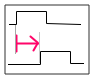
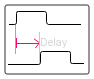
Updates

diff --git a/assets/shapes/index.js b/assets/shapes/index.js
@@ -6710,68 +6710,73 @@ var draw2d_circuit_timer_Delay = draw2d.SetFigure.extend({
         shape.data("name","BoundingBox");
         
         // Rectangle
-        shape = this.canvas.paper.path('M84 69L0 69L0 0L84 0Z');
+        shape = this.canvas.paper.path('M84,67Q84,69 82, 69L2,69Q0,69 0, 67L0,2Q0,0 2, 0L82,0Q84,0 84, 2L84,67');
         shape.attr({"stroke":"#303030","stroke-width":1,"fill":"#FFFFFF","dasharray":null,"opacity":1});
         shape.data("name","Rectangle");
         
+        // Label
+        shape = this.canvas.paper.text(0,0,'Delay');
+        shape.attr({"x":36,"y":37.5,"text-anchor":"start","text":"Delay","font-family":"\"Arial\"","font-size":11,"stroke":"none","fill":"#D9D9D9","stroke-scale":true,"font-weight":"normal","stroke-width":0,"opacity":1});
+        shape.data("name","Label");
+        
+        // pulseline_top_shadow
+        shape = this.canvas.paper.path('M4.5 19.5L9.5,19.5Q11.309437499999149,19.776879999997618 11.5, 17.5L11.5,8.5Q11.309437499998694,6.006239999997433 13.5, 6.5L39.5,6.5Q41.27567749999935,6.333919999997761 41.5, 8.5L41.5,16.5Q41.27567749999935,18.992499999997563 43.5, 19.5L75.5,19.5');
+        shape.attr({"stroke-linecap":"round","stroke-linejoin":"round","stroke":"none","stroke-width":1,"stroke-dasharray":null,"opacity":1});
+        shape.data("name","pulseline_top_shadow");
+        
+        // pulseline_top
+        shape = this.canvas.paper.path('M4.5 19.5L9.5,19.5Q11.309437499999149,19.776879999997618 11.5, 17.5L11.5,8.5Q11.309437499998694,6.006239999997433 13.5, 6.5L39.5,6.5Q41.27567749999935,6.333919999997761 41.5, 8.5L41.5,16.5Q41.27567749999935,18.992499999997563 43.5, 19.5L75.5,19.5');
+        shape.attr({"stroke-linecap":"round","stroke-linejoin":"round","stroke":"#000000","stroke-width":1,"stroke-dasharray":null,"opacity":1});
+        shape.data("name","pulseline_top");
+        
+        // pulseline_bottom_shadow
+        shape = this.canvas.paper.path('M3.5 59.5L33.5,59.5Q35.642557499997565,59.19479999999612 35.5, 57.5L35.5,48.5Q35.642557499997565,46.40719999999601 37.5, 46.5L63.5,46.5Q65.60879749999776,46.07951999999614 65.5, 48.5L65.5,56.5Q65.60879749999776,58.73809999999594 67.5, 58.5L78.5,58.5');
+        shape.attr({"stroke-linecap":"round","stroke-linejoin":"round","stroke":"none","stroke-width":1,"stroke-dasharray":null,"opacity":1});
+        shape.data("name","pulseline_bottom_shadow");
+        
+        // pulseline_bottom
+        shape = this.canvas.paper.path('M3.5 59.5L33.5,59.5Q35.642557499997565,59.19479999999612 35.5, 57.5L35.5,48.5Q35.642557499997565,46.40719999999601 37.5, 46.5L63.5,46.5Q65.60879749999776,46.07951999999614 65.5, 48.5L65.5,56.5Q65.60879749999776,58.73809999999594 67.5, 58.5L78.5,58.5');
+        shape.attr({"stroke-linecap":"round","stroke-linejoin":"round","stroke":"#000000","stroke-width":1,"stroke-dasharray":null,"opacity":1});
+        shape.data("name","pulseline_bottom");
+        
         // Line_shadow
-        shape = this.canvas.paper.path('M4.5 19.5L11.5,19.5L11.5,6.5L41.5,6.5L41.5,18.5L75.5,19.5');
+        shape = this.canvas.paper.path('M11.5 33.5L11.5,42.5');
         shape.attr({"stroke-linecap":"round","stroke-linejoin":"round","stroke":"none","stroke-width":1,"stroke-dasharray":null,"opacity":1});
         shape.data("name","Line_shadow");
         
         // Line
-        shape = this.canvas.paper.path('M4.5 19.5L11.5,19.5L11.5,6.5L41.5,6.5L41.5,18.5L75.5,19.5');
-        shape.attr({"stroke-linecap":"round","stroke-linejoin":"round","stroke":"#000000","stroke-width":1,"stroke-dasharray":null,"opacity":1});
+        shape = this.canvas.paper.path('M11.5 33.5L11.5,42.5');
+        shape.attr({"stroke-linecap":"round","stroke-linejoin":"round","stroke":"#FF0569","stroke-width":1,"stroke-dasharray":null,"opacity":1});
         shape.data("name","Line");
         
         // Line_shadow
-        shape = this.canvas.paper.path('M3.5 59.5L35.5,59.5L35.5,46.5L65.5,46.5L65.5,58.5L78.5,58.5');
+        shape = this.canvas.paper.path('M33.5 38.5L30.5,42.5');
         shape.attr({"stroke-linecap":"round","stroke-linejoin":"round","stroke":"none","stroke-width":1,"stroke-dasharray":null,"opacity":1});
         shape.data("name","Line_shadow");
         
         // Line
-        shape = this.canvas.paper.path('M3.5 59.5L35.5,59.5L35.5,46.5L65.5,46.5L65.5,58.5L78.5,58.5');
-        shape.attr({"stroke-linecap":"round","stroke-linejoin":"round","stroke":"#000000","stroke-width":1,"stroke-dasharray":null,"opacity":1});
+        shape = this.canvas.paper.path('M33.5 38.5L30.5,42.5');
+        shape.attr({"stroke-linecap":"round","stroke-linejoin":"round","stroke":"#FF0569","stroke-width":1,"stroke-dasharray":null,"opacity":1});
         shape.data("name","Line");
         
         // Line_shadow
-        shape = this.canvas.paper.path('M11.5 30.5L11.5,46.5');
-        shape.attr({"stroke-linecap":"round","stroke-linejoin":"round","stroke":"none","stroke-width":2,"stroke-dasharray":null,"opacity":1});
+        shape = this.canvas.paper.path('M29.5 34.5L33.5,37.5');
+        shape.attr({"stroke-linecap":"round","stroke-linejoin":"round","stroke":"none","stroke-width":1,"stroke-dasharray":null,"opacity":1});
         shape.data("name","Line_shadow");
         
         // Line
-        shape = this.canvas.paper.path('M11.5 30.5L11.5,46.5');
-        shape.attr({"stroke-linecap":"round","stroke-linejoin":"round","stroke":"#FF0569","stroke-width":2,"stroke-dasharray":null,"opacity":1});
-        shape.data("name","Line");
-        
-        // Line_shadow
-        shape = this.canvas.paper.path('M32.5 38.5L28.5,45.5');
-        shape.attr({"stroke-linecap":"round","stroke-linejoin":"round","stroke":"none","stroke-width":2,"stroke-dasharray":null,"opacity":1});
-        shape.data("name","Line_shadow");
-        
-        // Line
-        shape = this.canvas.paper.path('M32.5 38.5L28.5,45.5');
-        shape.attr({"stroke-linecap":"round","stroke-linejoin":"round","stroke":"#FF0569","stroke-width":2,"stroke-dasharray":null,"opacity":1});
+        shape = this.canvas.paper.path('M29.5 34.5L33.5,37.5');
+        shape.attr({"stroke-linecap":"round","stroke-linejoin":"round","stroke":"#FF0569","stroke-width":1,"stroke-dasharray":null,"opacity":1});
         shape.data("name","Line");
         
         // Line_shadow
         shape = this.canvas.paper.path('M11.5 38.5L33.5,38.5');
-        shape.attr({"stroke-linecap":"round","stroke-linejoin":"round","stroke":"none","stroke-width":2,"stroke-dasharray":null,"opacity":1});
+        shape.attr({"stroke-linecap":"round","stroke-linejoin":"round","stroke":"none","stroke-width":1,"stroke-dasharray":null,"opacity":1});
         shape.data("name","Line_shadow");
         
         // Line
         shape = this.canvas.paper.path('M11.5 38.5L33.5,38.5');
-        shape.attr({"stroke-linecap":"round","stroke-linejoin":"round","stroke":"#FF0569","stroke-width":2,"stroke-dasharray":null,"opacity":1});
-        shape.data("name","Line");
-        
-        // Line_shadow
-        shape = this.canvas.paper.path('M25.5 31.5L32.5,37.5');
-        shape.attr({"stroke-linecap":"round","stroke-linejoin":"round","stroke":"none","stroke-width":2,"stroke-dasharray":null,"opacity":1});
-        shape.data("name","Line_shadow");
-        
-        // Line
-        shape = this.canvas.paper.path('M25.5 31.5L32.5,37.5');
-        shape.attr({"stroke-linecap":"round","stroke-linejoin":"round","stroke":"#FF0569","stroke-width":2,"stroke-dasharray":null,"opacity":1});
+        shape.attr({"stroke-linecap":"round","stroke-linejoin":"round","stroke":"#FF0569","stroke-width":1,"stroke-dasharray":null,"opacity":1});
         shape.data("name","Line");
         
         // Line_shadow
@@ -6959,14 +6964,13 @@ draw2d_circuit_timer_Delay = draw2d_circuit_timer_Delay.extend({
         });
         this.attr({
             resizeable:false,
-            "userData.delay":1500
+            "userData.delay":500
         });
         this.installEditPolicy(new draw2d.policy.figure.AntSelectionFeedbackPolicy());
     },
     
     /**
-     * called every '10 [ms]' from the application. do a little bit calculation
-     * to change the state every 100ms (10Hz)
+     * called every '10 [ms]' from the application.
      * 
      **/
     calculate:function()
@@ -6994,7 +6998,7 @@ draw2d_circuit_timer_Delay = draw2d_circuit_timer_Delay.extend({
             property:{
                 type: "integer",
                 min: 10,
-                max: 100,
+                max: 15000,
                 increment:10
         }
         

diff --git a/assets/shapes/draw2d_circuit_timer_Delay.js b/assets/shapes/draw2d_circuit_timer_Delay.js
@@ -46,68 +46,73 @@ var draw2d_circuit_timer_Delay = draw2d.SetFigure.extend({
         shape.data("name","BoundingBox");
         
         // Rectangle
-        shape = this.canvas.paper.path('M84 69L0 69L0 0L84 0Z');
+        shape = this.canvas.paper.path('M84,67Q84,69 82, 69L2,69Q0,69 0, 67L0,2Q0,0 2, 0L82,0Q84,0 84, 2L84,67');
         shape.attr({"stroke":"#303030","stroke-width":1,"fill":"#FFFFFF","dasharray":null,"opacity":1});
         shape.data("name","Rectangle");
         
+        // Label
+        shape = this.canvas.paper.text(0,0,'Delay');
+        shape.attr({"x":36,"y":37.5,"text-anchor":"start","text":"Delay","font-family":"\"Arial\"","font-size":11,"stroke":"none","fill":"#D9D9D9","stroke-scale":true,"font-weight":"normal","stroke-width":0,"opacity":1});
+        shape.data("name","Label");
+        
+        // pulseline_top_shadow
+        shape = this.canvas.paper.path('M4.5 19.5L9.5,19.5Q11.309437499999149,19.776879999997618 11.5, 17.5L11.5,8.5Q11.309437499998694,6.006239999997433 13.5, 6.5L39.5,6.5Q41.27567749999935,6.333919999997761 41.5, 8.5L41.5,16.5Q41.27567749999935,18.992499999997563 43.5, 19.5L75.5,19.5');
+        shape.attr({"stroke-linecap":"round","stroke-linejoin":"round","stroke":"none","stroke-width":1,"stroke-dasharray":null,"opacity":1});
+        shape.data("name","pulseline_top_shadow");
+        
+        // pulseline_top
+        shape = this.canvas.paper.path('M4.5 19.5L9.5,19.5Q11.309437499999149,19.776879999997618 11.5, 17.5L11.5,8.5Q11.309437499998694,6.006239999997433 13.5, 6.5L39.5,6.5Q41.27567749999935,6.333919999997761 41.5, 8.5L41.5,16.5Q41.27567749999935,18.992499999997563 43.5, 19.5L75.5,19.5');
+        shape.attr({"stroke-linecap":"round","stroke-linejoin":"round","stroke":"#000000","stroke-width":1,"stroke-dasharray":null,"opacity":1});
+        shape.data("name","pulseline_top");
+        
+        // pulseline_bottom_shadow
+        shape = this.canvas.paper.path('M3.5 59.5L33.5,59.5Q35.642557499997565,59.19479999999612 35.5, 57.5L35.5,48.5Q35.642557499997565,46.40719999999601 37.5, 46.5L63.5,46.5Q65.60879749999776,46.07951999999614 65.5, 48.5L65.5,56.5Q65.60879749999776,58.73809999999594 67.5, 58.5L78.5,58.5');
+        shape.attr({"stroke-linecap":"round","stroke-linejoin":"round","stroke":"none","stroke-width":1,"stroke-dasharray":null,"opacity":1});
+        shape.data("name","pulseline_bottom_shadow");
+        
+        // pulseline_bottom
+        shape = this.canvas.paper.path('M3.5 59.5L33.5,59.5Q35.642557499997565,59.19479999999612 35.5, 57.5L35.5,48.5Q35.642557499997565,46.40719999999601 37.5, 46.5L63.5,46.5Q65.60879749999776,46.07951999999614 65.5, 48.5L65.5,56.5Q65.60879749999776,58.73809999999594 67.5, 58.5L78.5,58.5');
+        shape.attr({"stroke-linecap":"round","stroke-linejoin":"round","stroke":"#000000","stroke-width":1,"stroke-dasharray":null,"opacity":1});
+        shape.data("name","pulseline_bottom");
+        
         // Line_shadow
-        shape = this.canvas.paper.path('M4.5 19.5L11.5,19.5L11.5,6.5L41.5,6.5L41.5,18.5L75.5,19.5');
+        shape = this.canvas.paper.path('M11.5 33.5L11.5,42.5');
         shape.attr({"stroke-linecap":"round","stroke-linejoin":"round","stroke":"none","stroke-width":1,"stroke-dasharray":null,"opacity":1});
         shape.data("name","Line_shadow");
         
         // Line
-        shape = this.canvas.paper.path('M4.5 19.5L11.5,19.5L11.5,6.5L41.5,6.5L41.5,18.5L75.5,19.5');
-        shape.attr({"stroke-linecap":"round","stroke-linejoin":"round","stroke":"#000000","stroke-width":1,"stroke-dasharray":null,"opacity":1});
+        shape = this.canvas.paper.path('M11.5 33.5L11.5,42.5');
+        shape.attr({"stroke-linecap":"round","stroke-linejoin":"round","stroke":"#FF0569","stroke-width":1,"stroke-dasharray":null,"opacity":1});
         shape.data("name","Line");
         
         // Line_shadow
-        shape = this.canvas.paper.path('M3.5 59.5L35.5,59.5L35.5,46.5L65.5,46.5L65.5,58.5L78.5,58.5');
+        shape = this.canvas.paper.path('M33.5 38.5L30.5,42.5');
         shape.attr({"stroke-linecap":"round","stroke-linejoin":"round","stroke":"none","stroke-width":1,"stroke-dasharray":null,"opacity":1});
         shape.data("name","Line_shadow");
         
         // Line
-        shape = this.canvas.paper.path('M3.5 59.5L35.5,59.5L35.5,46.5L65.5,46.5L65.5,58.5L78.5,58.5');
-        shape.attr({"stroke-linecap":"round","stroke-linejoin":"round","stroke":"#000000","stroke-width":1,"stroke-dasharray":null,"opacity":1});
+        shape = this.canvas.paper.path('M33.5 38.5L30.5,42.5');
+        shape.attr({"stroke-linecap":"round","stroke-linejoin":"round","stroke":"#FF0569","stroke-width":1,"stroke-dasharray":null,"opacity":1});
         shape.data("name","Line");
         
         // Line_shadow
-        shape = this.canvas.paper.path('M11.5 30.5L11.5,46.5');
-        shape.attr({"stroke-linecap":"round","stroke-linejoin":"round","stroke":"none","stroke-width":2,"stroke-dasharray":null,"opacity":1});
+        shape = this.canvas.paper.path('M29.5 34.5L33.5,37.5');
+        shape.attr({"stroke-linecap":"round","stroke-linejoin":"round","stroke":"none","stroke-width":1,"stroke-dasharray":null,"opacity":1});
         shape.data("name","Line_shadow");
         
         // Line
-        shape = this.canvas.paper.path('M11.5 30.5L11.5,46.5');
-        shape.attr({"stroke-linecap":"round","stroke-linejoin":"round","stroke":"#FF0569","stroke-width":2,"stroke-dasharray":null,"opacity":1});
-        shape.data("name","Line");
-        
-        // Line_shadow
-        shape = this.canvas.paper.path('M32.5 38.5L28.5,45.5');
-        shape.attr({"stroke-linecap":"round","stroke-linejoin":"round","stroke":"none","stroke-width":2,"stroke-dasharray":null,"opacity":1});
-        shape.data("name","Line_shadow");
-        
-        // Line
-        shape = this.canvas.paper.path('M32.5 38.5L28.5,45.5');
-        shape.attr({"stroke-linecap":"round","stroke-linejoin":"round","stroke":"#FF0569","stroke-width":2,"stroke-dasharray":null,"opacity":1});
+        shape = this.canvas.paper.path('M29.5 34.5L33.5,37.5');
+        shape.attr({"stroke-linecap":"round","stroke-linejoin":"round","stroke":"#FF0569","stroke-width":1,"stroke-dasharray":null,"opacity":1});
         shape.data("name","Line");
         
         // Line_shadow
         shape = this.canvas.paper.path('M11.5 38.5L33.5,38.5');
-        shape.attr({"stroke-linecap":"round","stroke-linejoin":"round","stroke":"none","stroke-width":2,"stroke-dasharray":null,"opacity":1});
+        shape.attr({"stroke-linecap":"round","stroke-linejoin":"round","stroke":"none","stroke-width":1,"stroke-dasharray":null,"opacity":1});
         shape.data("name","Line_shadow");
         
         // Line
         shape = this.canvas.paper.path('M11.5 38.5L33.5,38.5');
-        shape.attr({"stroke-linecap":"round","stroke-linejoin":"round","stroke":"#FF0569","stroke-width":2,"stroke-dasharray":null,"opacity":1});
-        shape.data("name","Line");
-        
-        // Line_shadow
-        shape = this.canvas.paper.path('M25.5 31.5L32.5,37.5');
-        shape.attr({"stroke-linecap":"round","stroke-linejoin":"round","stroke":"none","stroke-width":2,"stroke-dasharray":null,"opacity":1});
-        shape.data("name","Line_shadow");
-        
-        // Line
-        shape = this.canvas.paper.path('M25.5 31.5L32.5,37.5');
-        shape.attr({"stroke-linecap":"round","stroke-linejoin":"round","stroke":"#FF0569","stroke-width":2,"stroke-dasharray":null,"opacity":1});
+        shape.attr({"stroke-linecap":"round","stroke-linejoin":"round","stroke":"#FF0569","stroke-width":1,"stroke-dasharray":null,"opacity":1});
         shape.data("name","Line");
         
         // Line_shadow
@@ -295,14 +300,13 @@ draw2d_circuit_timer_Delay = draw2d_circuit_timer_Delay.extend({
         });
         this.attr({
             resizeable:false,
-            "userData.delay":1500
+            "userData.delay":500
         });
         this.installEditPolicy(new draw2d.policy.figure.AntSelectionFeedbackPolicy());
     },
     
     /**
-     * called every '10 [ms]' from the application. do a little bit calculation
-     * to change the state every 100ms (10Hz)
+     * called every '10 [ms]' from the application.
      * 
      **/
     calculate:function()
@@ -330,7 +334,7 @@ draw2d_circuit_timer_Delay = draw2d_circuit_timer_Delay.extend({
             property:{
                 type: "integer",
                 min: 10,
-                max: 100,
+                max: 15000,
                 increment:10
         }
         
